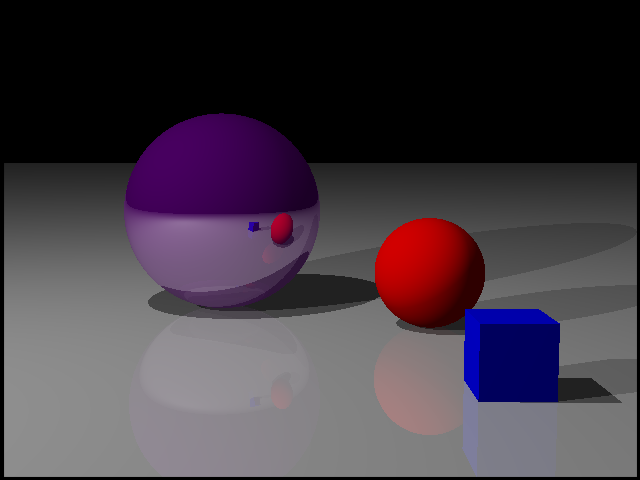
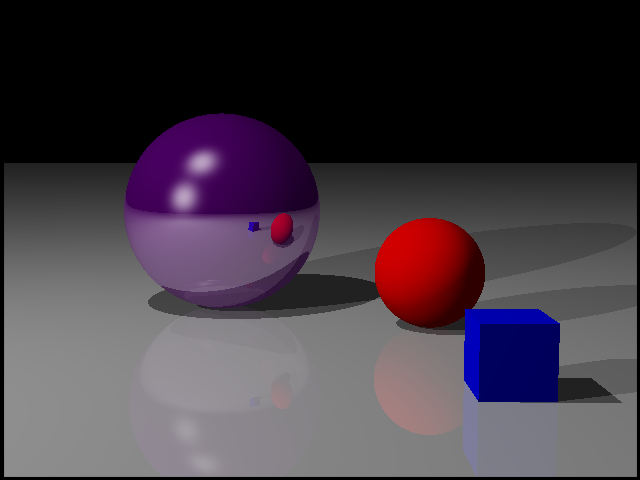
Added Phong

Changed region(s): [[0.25, 0.2812, 0.3438, 0.4688]]

diff --git a/object/object.py b/object/object.py
@@ -1,4 +1,4 @@
-from numpy import clip, inner
+from numpy import array, clip, inner
 from numpy.linalg import norm
 
 from core.ray import Ray
@@ -27,6 +27,7 @@ class Object:
 
     def shader(self, p, d, lightsource_list, object_list, recursion_depth=1):
         normal = self.get_normal(p)
+        reflect = lambda incoming: incoming - 2.0 * inner(normal, incoming) * normal
 
         # ambient
         color = self.properties.ambient * self.properties.color
@@ -40,6 +41,13 @@ class Object:
                     diffuse_coefficient = -inner(normal, normalize(lightray.direction))
                     diffuse_coefficient = clip(diffuse_coefficient, 0.0, 1.0)
                     color += self.properties.diffuse * diffuse_coefficient * self.properties.color
+
+                    # Phong
+                    if self.properties.phong[0] > 0.0 and self.properties.phong[1] > 0:
+                        reflected = normalize(reflect(lightray.direction))
+                        factor = -inner(reflected, normalize(d))
+                        if factor > 0.0:
+                            color += self.properties.phong[0] * factor**self.properties.phong[1] * array([1.0, 1.0, 1.0])
 
         # reflection
         if self.properties.reflection > 0.0 and Object.max_recursion_depth > recursion_depth:

diff --git a/main.py b/main.py
@@ -15,22 +15,22 @@ lightsource_list = [array([0.0, 5.0, 10.0]), array([-5.0, 10.0, 5.0])]
 objects = []
 
 red = array([1.0, 0.0, 0.0])
-properties = Properties(red, 0.2, 0.8, 0.0)
+properties = Properties(color=red, ambient=0.2, diffuse=0.8)
 objects.append(Sphere(array([4.0, -2.0, 0.0]), 1.0, properties))
 
 
 purple = array([148.0 / 255.0, 0.0, 211.0 / 255.0])
-properties = Properties(purple, 0.2, 0.2, 0.6)
+properties = Properties(color=purple, ambient=0.2, diffuse=0.2, phong=[1.0, 30], reflection=0.6)
 objects.append(Sphere(array([6.0, 2.0, 1.0]), 2.0, properties))
 
 
 blue = array([0.0, 0.0, 1.0])
-properties = Properties(blue, 0.2, 0.8, 0.0)
+properties = Properties(color=blue, ambient=0.2, diffuse=0.8)
 objects.append(Box(array([-0.5, -3.0, -1.0]), array([0.5, -2.0, 0.0]), properties))
 
 
 gray = array([0.7, 0.7, 0.7])
-properties = Properties(gray, 0.2, 0.6, 0.2)
+properties = Properties(color=gray, ambient=0.2, diffuse=0.6, phong=[0.0, 0], reflection=0.2)
 objects.append(Plane(array([0.0, 0.0, 1.0]), 1.0, properties))
 
 renderer(lightsource_list, objects)

diff --git a/core/properties.py b/core/properties.py
@@ -1,6 +1,7 @@
 class Properties:
-    def __init__(self, color, ambient=1.0, diffuse=0.0, reflection=0.0):
+    def __init__(self, color, ambient=1.0, diffuse=0.0, phong=[0.0, 0], reflection=0.0):
         self.color = color
         self.ambient = ambient
         self.diffuse = diffuse
+        self.phong = phong
         self.reflection = reflection
